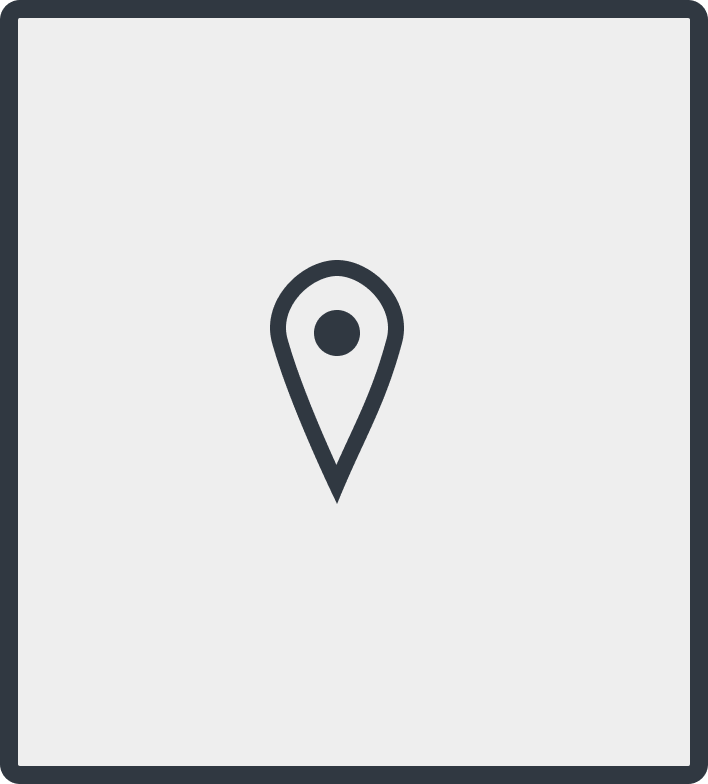
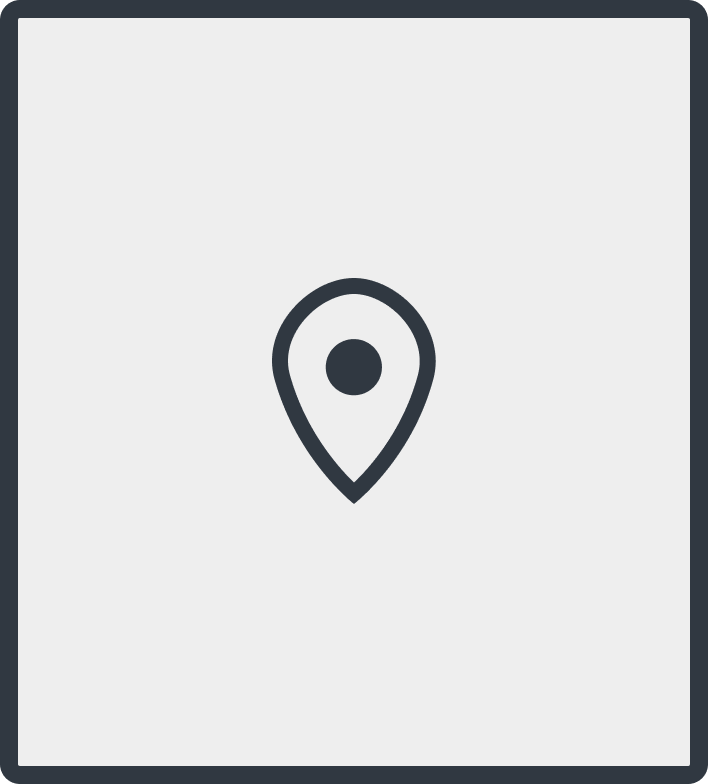
Plusieur modif : - ajout de la possibilité d'ajouter une page textPhotoMap - plus update de certain design

Changed region(s): [[0.3729, 0.3061, 0.6215, 0.6429]]

diff --git a/ressources/styles/main.css b/ressources/styles/main.css
@@ -76,6 +76,12 @@ ImageView{
     -fx-border-radius: 50;
 }
 
+WebView{
+    -fx-background-color: none;
+    -fx-border-radius: 50;
+    -fx-border-color: #303841;
+}
+
 TextArea .content{
     -fx-background-color: none;
 }

diff --git a/src/carnet/controleur/page/ControleurModeAjouterPage.java b/src/carnet/controleur/page/ControleurModeAjouterPage.java
@@ -4,6 +4,7 @@ import carnet.exceptions.PageOutOfRangeException;
 import carnet.model.Carnet;
 import carnet.model.PageAccueil;
 import carnet.model.PageTextPhoto;
+import carnet.model.PageTextPhotoMap;
 import javafx.fxml.FXML;
 import javafx.scene.control.Button;
 
@@ -37,6 +38,13 @@ public class ControleurModeAjouterPage {
     @FXML
     public void addTextPhoto() {
         carnet.addPage(new PageTextPhoto());
+        carnet.moveTo(carnet.getNombrePagesContenu());
+        carnet.notifierObservateurs();
+    }
+
+    @FXML
+    public void addTextPhotoMap(){
+        carnet.addPage(new PageTextPhotoMap());
         carnet.moveTo(carnet.getNombrePagesContenu());
         carnet.notifierObservateurs();
     }

diff --git a/src/carnet/Main.java b/src/carnet/Main.java
@@ -7,8 +7,6 @@ import javafx.scene.Scene;
 import javafx.scene.layout.BorderPane;
 import javafx.stage.Stage;
 
-import java.util.HashMap;
-
 public class Main extends Application {
 
     public static void main(String[] args) {
@@ -23,7 +21,7 @@ public class Main extends Application {
         carnet.addPage(new PageTextPhotoMap());
 
         BorderPane MainPane = new BorderPane();
-        MainPane.getStylesheets().add(getClass().getResource("/styles/nonedition.css").toExternalForm());
+        MainPane.getStylesheets().add(getClass().getResource("/styles/main.css").toExternalForm());
         MainPane.setPrefSize(800, 600);
 
 

diff --git a/src/carnet/controleur/page/ControleurPageTextPhoto.java b/src/carnet/controleur/page/ControleurPageTextPhoto.java
@@ -79,7 +79,7 @@ public class ControleurPageTextPhoto extends ControleurPageContenu{
 
     @FXML
     public void toggleModeEdition() {
-        String css = modeEdition ? "/styles/edition.css" : "/styles/nonedition.css";
+        String css = modeEdition ? "/styles/edition.css" : "/styles/main.css";
 
         applyStylesheet(contenu, modeEdition, css);
         applyStylesheet(date, modeEdition, css);

diff --git a/src/carnet/controleur/page/ControleurPageAccueil.java b/src/carnet/controleur/page/ControleurPageAccueil.java
@@ -54,7 +54,7 @@ public class ControleurPageAccueil extends ControleurPageContenu{
 
     @FXML
     public void toggleModeEdition(){
-        String css = modeEdition ? "/styles/edition.css" : "/styles/nonedition.css";
+        String css = modeEdition ? "/styles/edition.css" : "/styles/main.css";
 
         applyStylesheet(titre, modeEdition, css);
         applyStylesheet(auteur, modeEdition, css);
